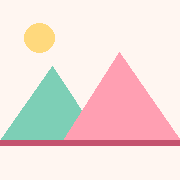
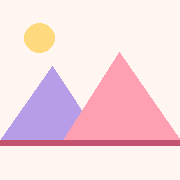
Add files via upload

Changed region(s): [[0.0, 0.3611, 0.4722, 0.7778]]

diff --git a/index.html b/index.html
@@ -15,7 +15,7 @@
 :root {
   --bg: #FFF6F1; --card: #FFFFFF; --ink: #4A3540; --ink-2: #967C88; --ink-3: #C2ACB6;
   --line: #F5E3E7; --day1: #FF9FB2; --day1-soft: #FFE9EE; --day1-text: #C4536F;
-  --multi: #7DCFB6; --multi-soft: #E3F7EF; --multi-text: #2E8A6E;
+  --multi: #B79CE8; --multi-soft: #F1EAFC; --multi-text: #7A55BE;
   --danger: #E5646E; --radius: 16px;
 }
 /* 固定使用淺色主題,不跟隨系統深色模式 */
